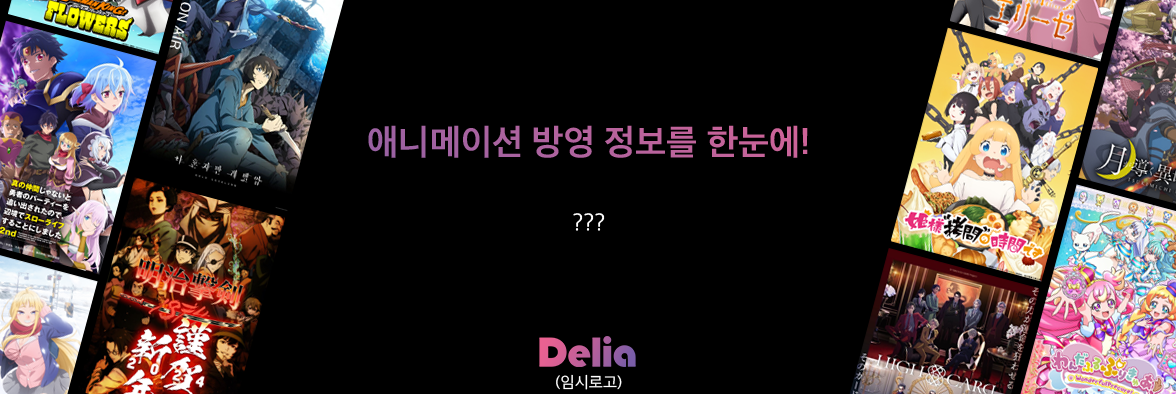
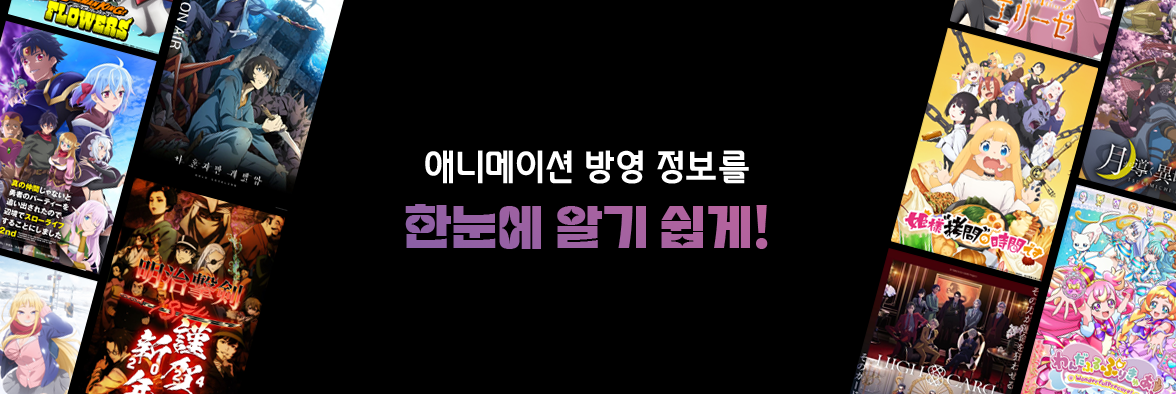
배너이미지, 로고 변경

Changed region(s): [[0.3061, 0.3046, 0.7041, 0.4873], [0.3367, 0.5178, 0.6735, 0.6396], [0.4592, 0.8528, 0.551, 1.0]]

diff --git a/app/src/main/resources/templates/index.html b/app/src/main/resources/templates/index.html
@@ -60,11 +60,11 @@ https://templatemo.com/tm-579-cyborg-gaming
           <!-- ***** Banner Start ***** -->
           <div class="main-banner">
             <div class="slide slide_wrap">
-              <div class="slide_item item1"><img src="./static/images/banner-bg.jpg"></div>
-              <div class="slide_item item2"><img src="./static/images/banner_img_0.png"></div>
-              <div class="slide_item item3"><img src="./static/images/banner_img_1.png"></div>
-              <div class="slide_item item4"><img src="./static/images/banner-bg.jpg"></div>
-              <div class="slide_item item5"><img src="./static/images/banner_img_0.png"></div>
+              <div class="slide_item item1"><img src="./static/images/banner_img_0.png"></div>
+              <div class="slide_item item2"><img src="./static/images/banner_img_1.png"></div>
+              <div class="slide_item item3"><img src="./static/images/banner_img_2.png"></div>
+              <div class="slide_item item4"><img src="./static/images/banner_img_3.png"></div>
+              <div class="slide_item item5"><img src="./static/images/banner_img_4.png"></div>
               <div class="slide_prev_button slide_button">◀</div>
               <div class="slide_next_button slide_button">▶</div>
               <ul class="slide_pagination"></ul>
